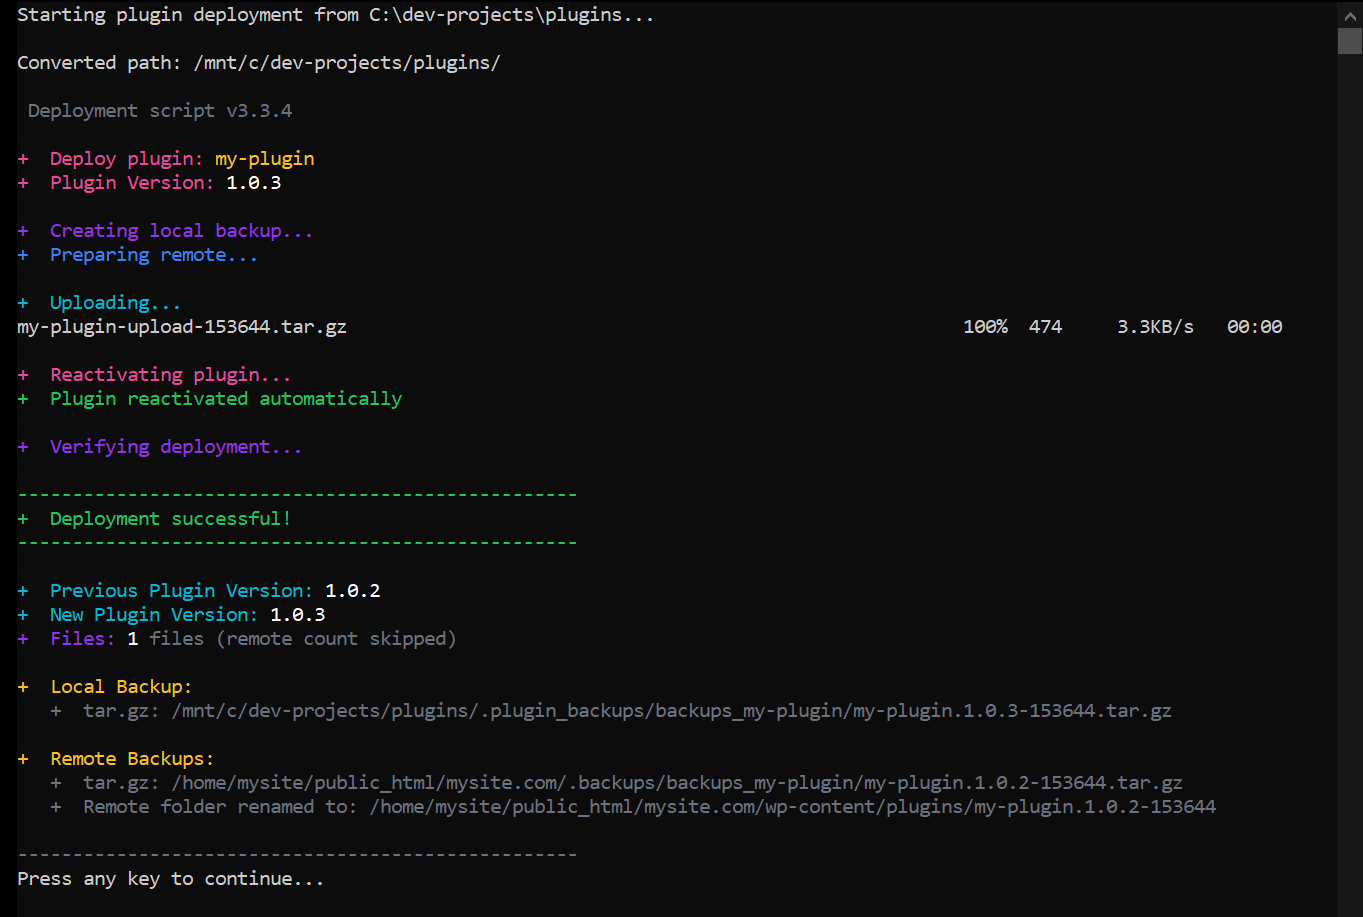
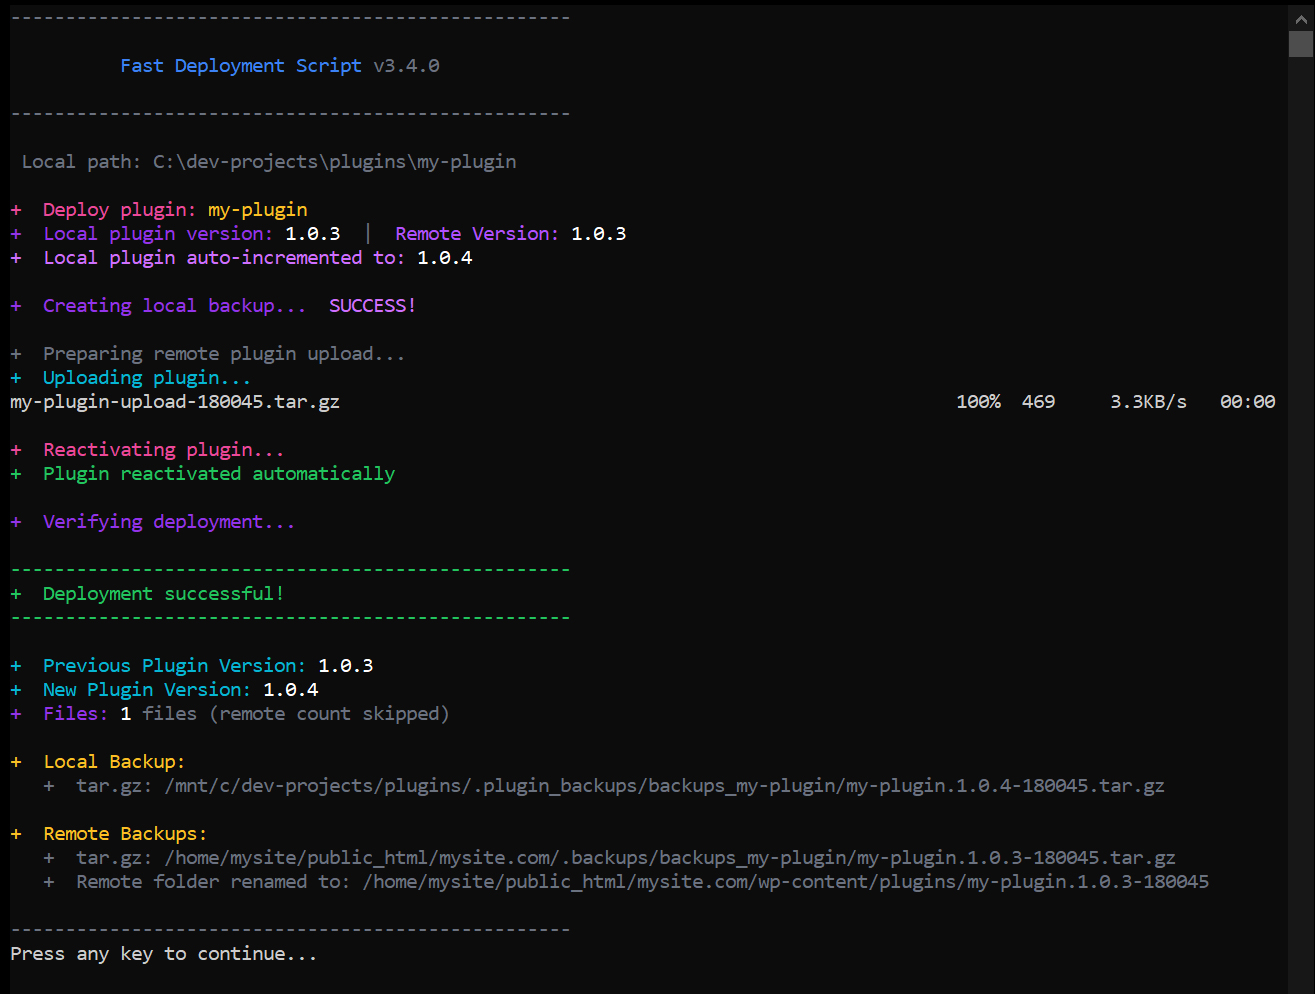
Auto-increment version feature

diff --git a/README.md b/README.md
@@ -2,7 +2,7 @@
 
 ![Windows](https://img.shields.io/badge/Windows-10%2B-blue.svg)
 ![WordPress](https://img.shields.io/badge/WordPress-5.0%2B-21759B.svg)
-![Version](https://img.shields.io/badge/Version-3.3.5-green.svg)
+![Version](https://img.shields.io/badge/Version-3.4.0-green.svg)
 ![License](https://img.shields.io/badge/License-GPLv3-orange.svg)
 
 > **Created by:** [lso2](https://github.com/lso2)  
@@ -57,7 +57,7 @@ This automates several things to save time:
 
 ## Quick Usage Guide
 
-- The main files you will use are `deploy.bat`, `update-version.bat`, and `/_scripts/rollback.bat`.
+- The main files you will use are `deploy.bat`, `_scripts/update-version.bat`, and `_scripts/rollback.bat`.
 - Download the repo and drop it directly into your root, so that the .bat file and config file are in the same folder as your plugin folder.
 - Configure the config.sh file by adding your real paths and server details.
 - In the config file:
@@ -67,6 +67,7 @@ This automates several things to save time:
 	- Set up your ssh connection
 	- Optionally, you can also customize many things, or leave it as is. Remote tar.gz is disabled by default for speed.
 - Run the script by double-clicking the .bat file. It will open a CMD window which will show you the progress and details.
+- **NEW: Automatic Version Increment** - When local and remote versions match, the script automatically increments your local version before deployment!
 
 ## Quick Start
 
@@ -438,6 +439,9 @@ REMOTE_BASE="/path/to/wordpress/root"
 
 # Rollback Configuration
 ROLLBACK_SYNC_LOCAL="true"     # "true" = rollback both local and remote, "false" = remote only
+
+# Auto-Increment Configuration
+AUTO_INCREMENT_VERSION="true"  # "true" = auto-increment when versions match, "false" = skip version checking
 
 # Database Backup Configuration
 DB_BACKUP_MODE="manual"        # "off" = no backups, "manual" = backup tools only, "auto" = backup with deploy
@@ -927,6 +931,17 @@ GPLv3 — freely use, modify, and distribute, with a commitment to keep the sour
 **⭐ If this script saved you time, please star the repository!**
 
 ## Changelog
+
+### v3.4.0 - Automatic Version Increment with Smart Deployment
+- **⚡ Automatic Version Increment** - When local and remote versions match, automatically increments local version before deployment
+- **🎯 Smart Version Display** - Shows both local and remote versions side-by-side for better version awareness
+- **⚙ Configurable Auto-Increment** - New `AUTO_INCREMENT_VERSION="true"` setting (default enabled) with zero performance impact when disabled
+- **🔄 Seamless Integration** - Uses existing proven `update-version.bat` logic for reliable version incrementing
+- **📊 Enhanced Output Flow** - Clean progression from single version display to dual version comparison to increment confirmation
+- **🛠 Script Organization** - Moved `update-version.bat` to `_scripts/` folder for better organization
+- **🚀 Streamlined Workflow** - Eliminates manual version incrementing when deploying same versions, prevents version conflicts
+- **⚠ Smart Fallback** - Shows clear error messages if version increment fails, maintains deployment safety
+- **📁 Path Display Enhancement** - Added colored deployment path information for better user feedback
 
 ### v3.3.5 - Instant Setup with Sample Data
 - **📦 One-Click Sample Project** - New `install-sample-data.bat` installs complete WordPress project structure instantly
